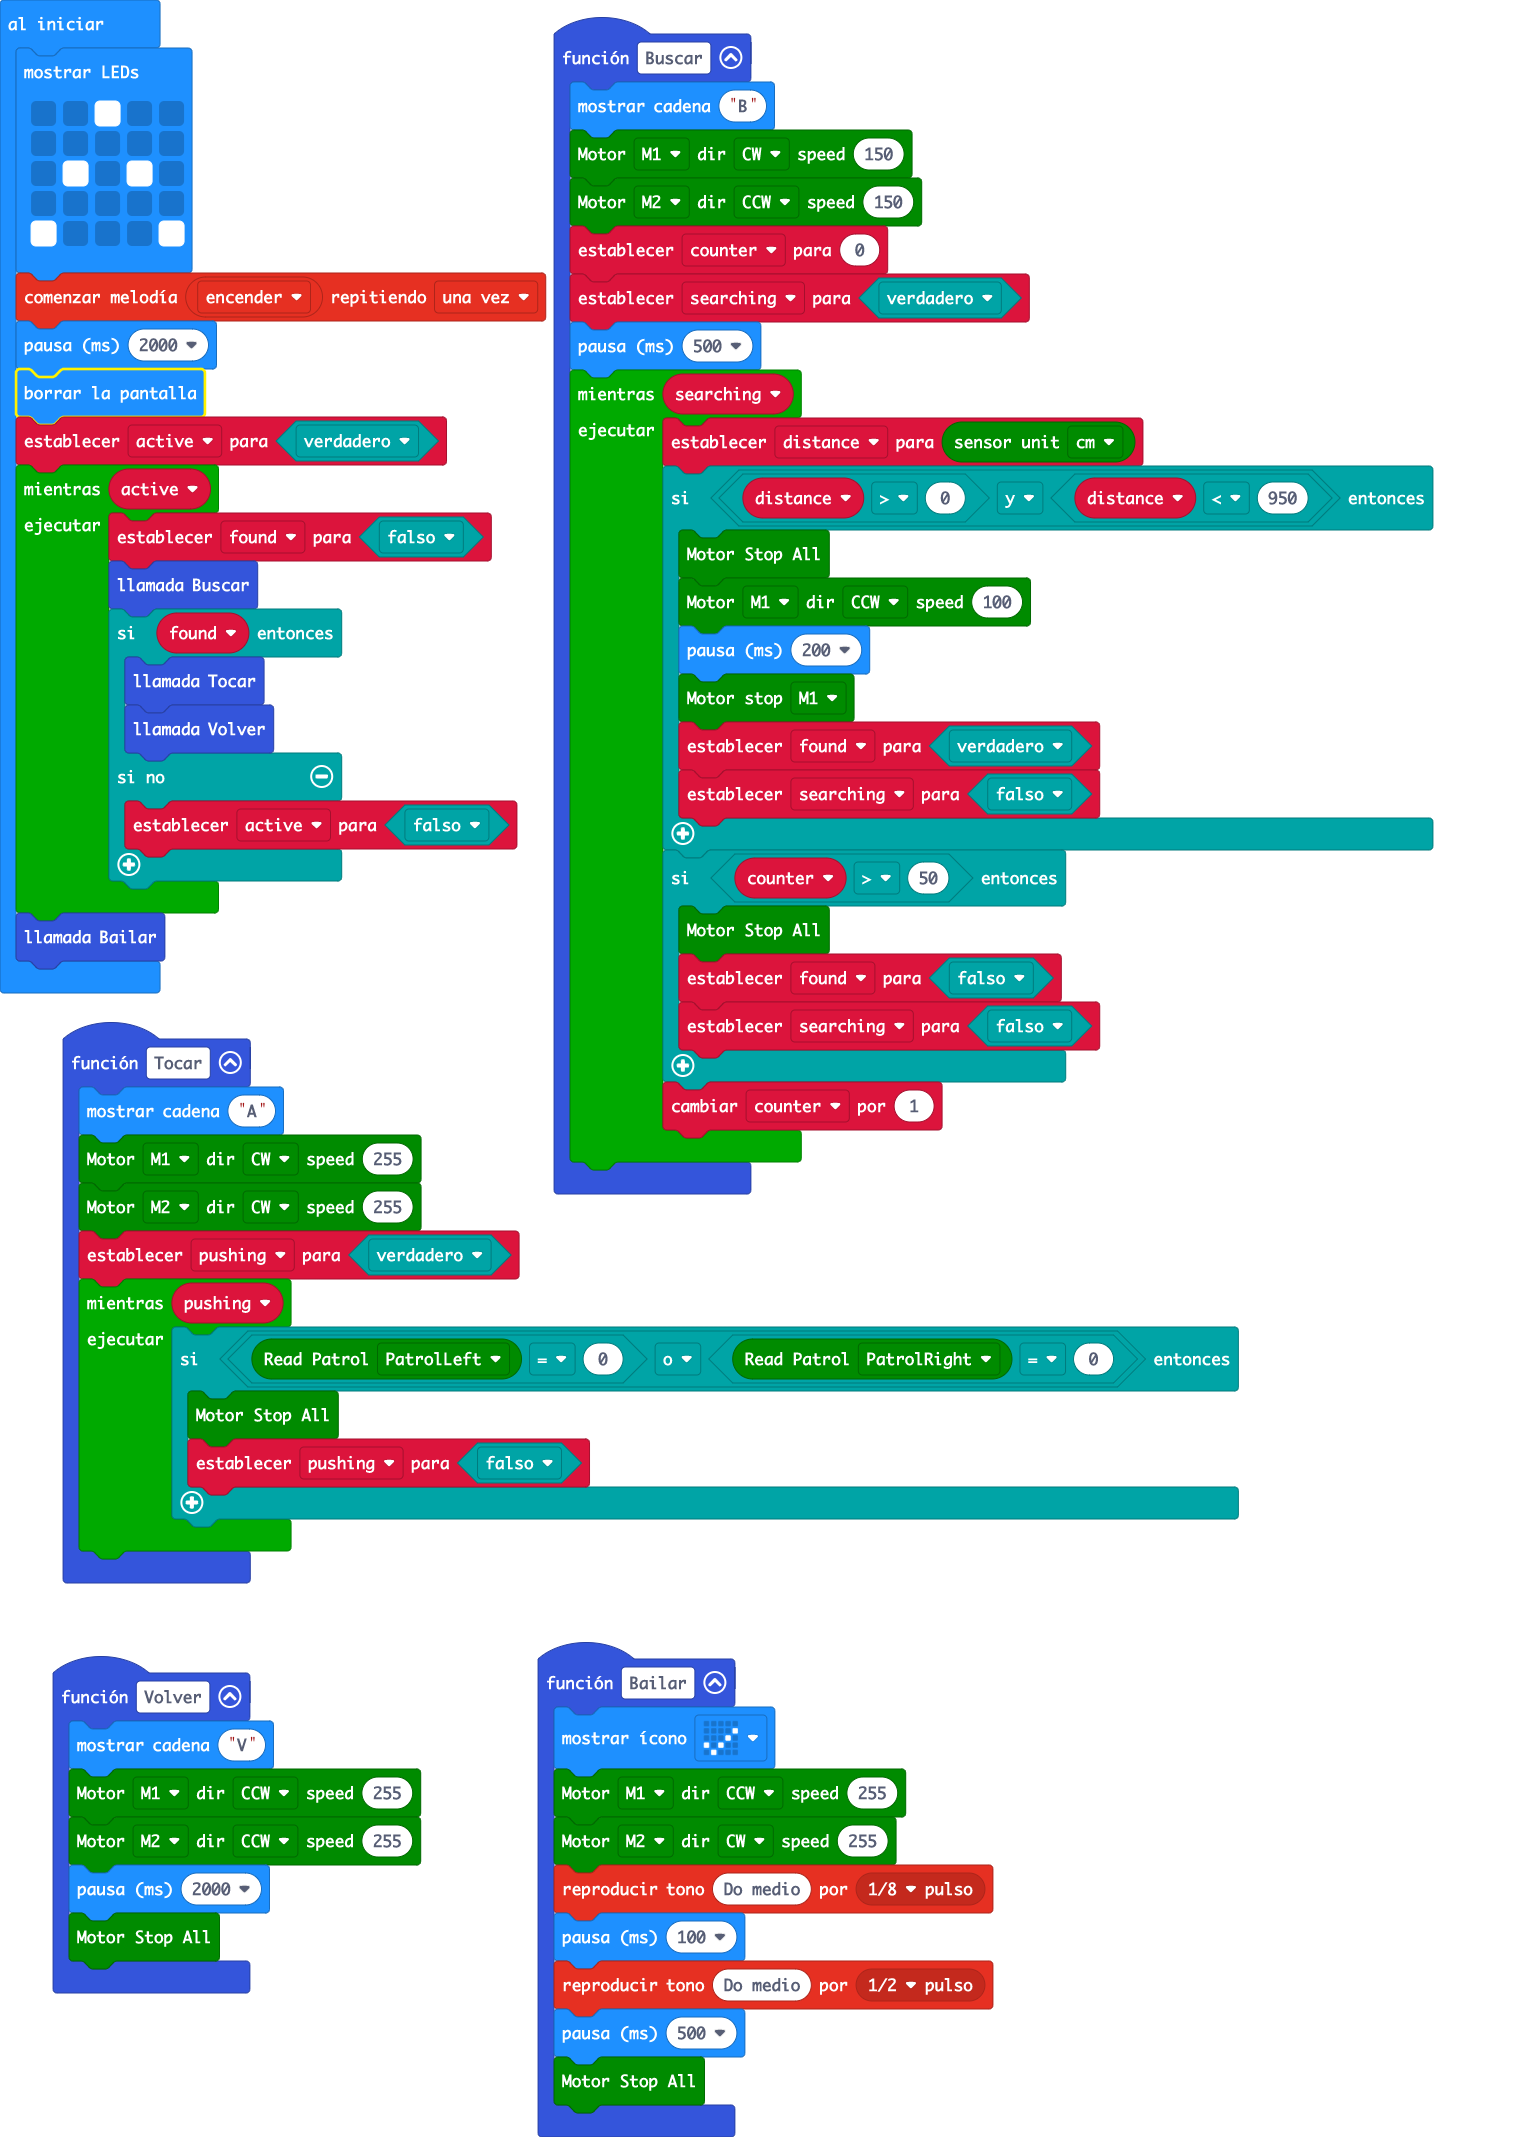
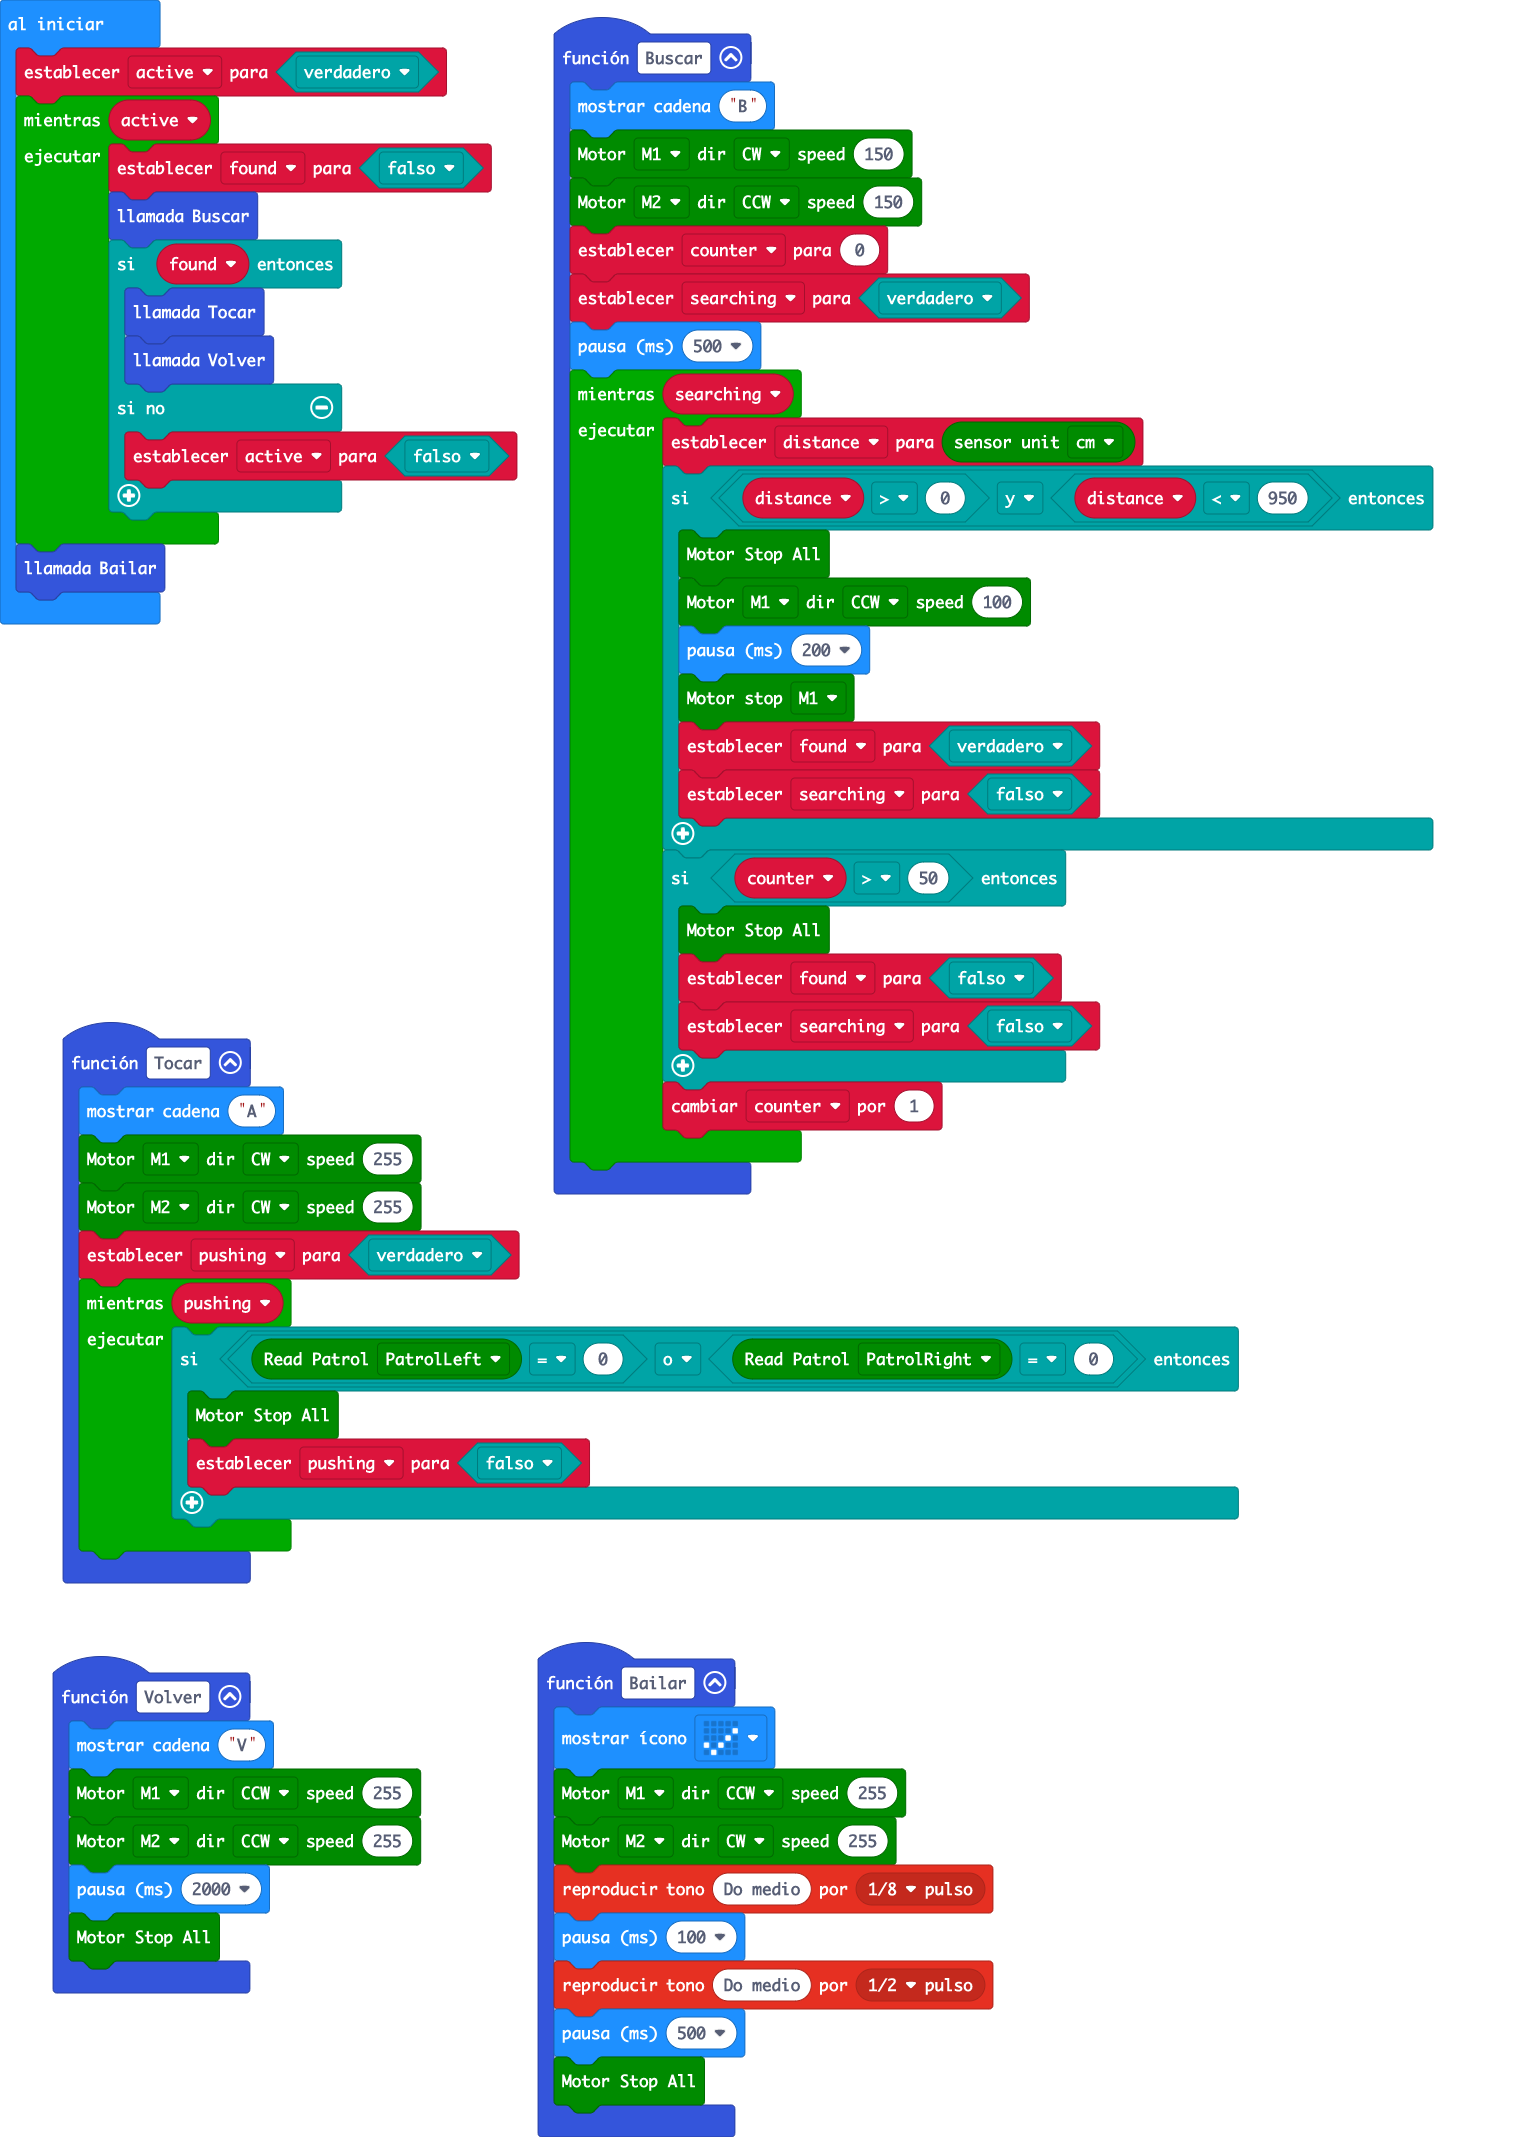
Actualizar main.blocks, main.ts

Changed region(s): [[0.0, 0.0, 0.3748, 0.4633]]

diff --git a/main.ts b/main.ts
@@ -57,16 +57,6 @@ let distance = 0
 let searching = false
 let counter = 0
 let found = false
-basic.showLeds(`
-    . . # . .
-    . . . . .
-    . # . # .
-    . . . . .
-    # . . . #
-    `)
-music.startMelody(music.builtInMelody(Melodies.PowerUp), MelodyOptions.Once)
-basic.pause(2000)
-basic.clearScreen()
 let active = true
 while (active) {
     found = false
